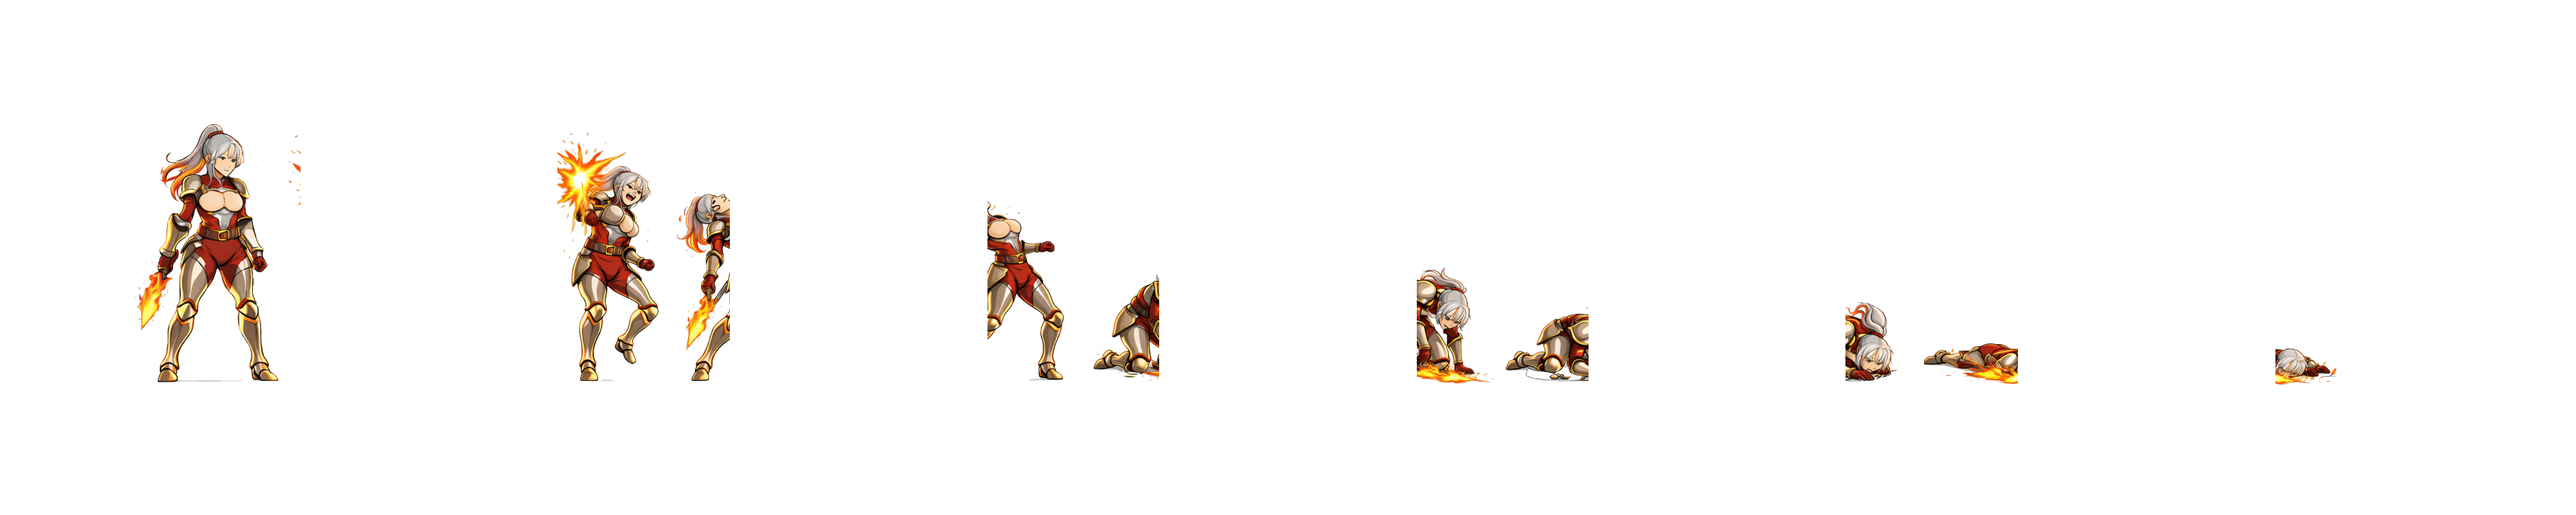
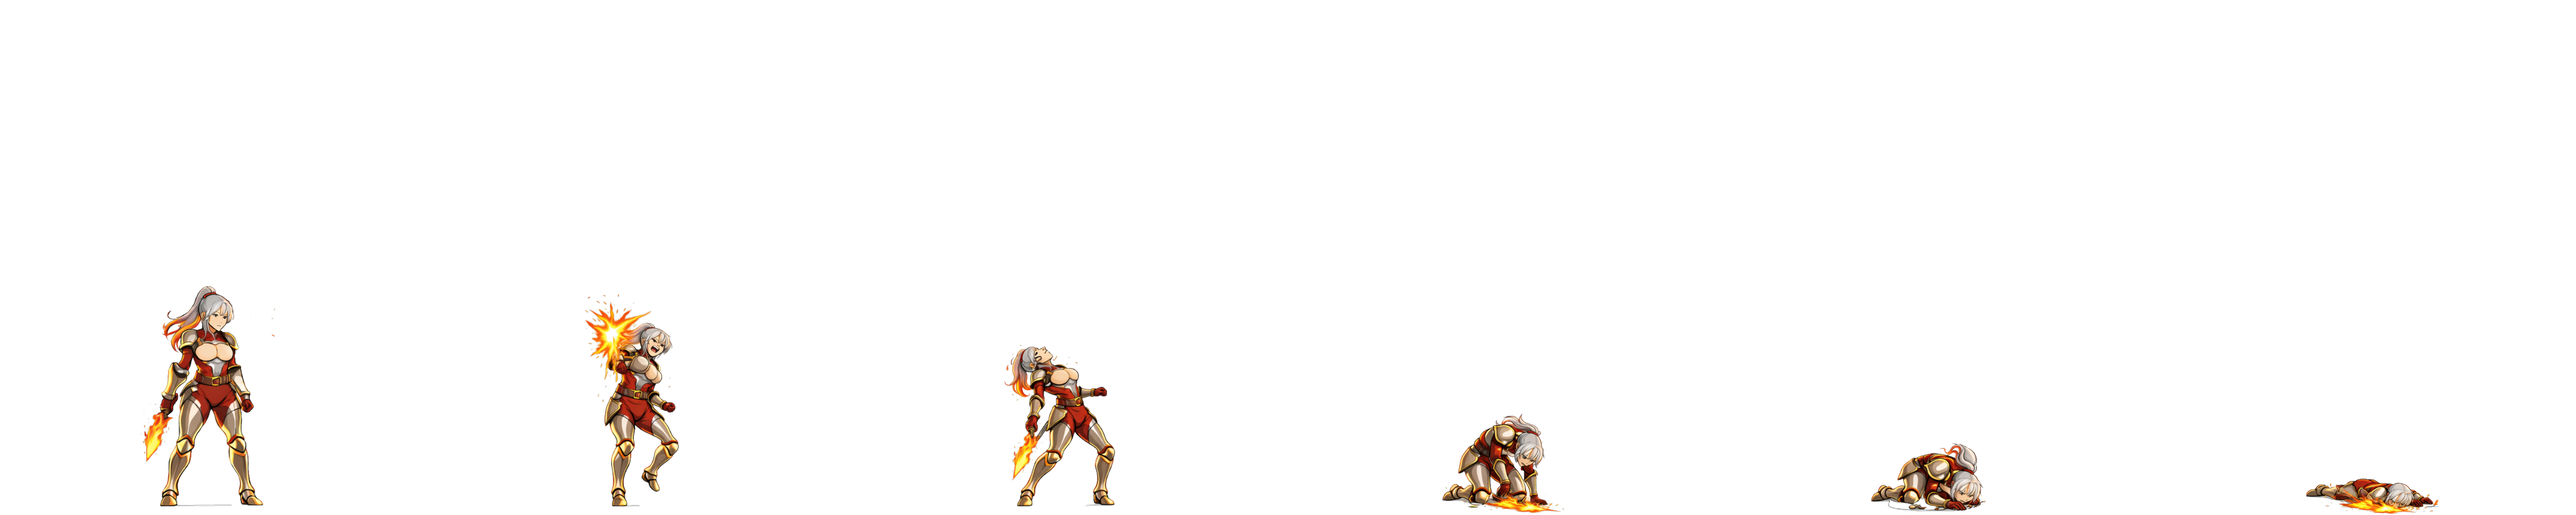
auto-commit for de82c83e-0d06-4fab-b8a9-4f66e5dc0048

diff --git a/scripts/normalize_berserker_sheets_retry.py b/scripts/normalize_berserker_sheets_retry.py
@@ -27,11 +27,13 @@ os.makedirs(RUN, exist_ok=True)
 
 # Config layout ufficiale
 STATES = {
-    "idle":   {"file": "idle_source.png",   "frames": 6, "cols": 6, "rows": 1, "layout": "row",    "fps": 8,  "loop": True},
-    "attack": {"file": "attack_source.png", "frames": 5, "cols": 5, "rows": 1, "layout": "row",    "fps": 12, "loop": False},
-    "skill":  {"file": "skill_source.png",  "frames": 9, "cols": 5, "rows": 2, "layout": "5plus4", "fps": 12, "loop": False},
-    "hit":    {"file": "hit_source.png",    "frames": 5, "cols": 5, "rows": 1, "layout": "row",    "fps": 10, "loop": False},
-    "death":  {"file": "death_source.png",  "frames": 6, "cols": 6, "rows": 1, "layout": "row",    "fps": 8,  "loop": False},
+    "idle":   {"file": "idle_source.png",   "frames": 6, "cols": 6, "rows": 1, "layout": "row",       "fps": 8,  "loop": True},
+    "attack": {"file": "attack_source.png", "frames": 5, "cols": 5, "rows": 1, "layout": "row",       "fps": 12, "loop": False},
+    # v4: 5×2 grid uniforme (NON 5+4). Prime 9 celle sono frame visibili, 10ª
+    # (r1c4) è padding trasparente non animato — "frames must remain 9".
+    "skill":  {"file": "skill_source.png",  "frames": 9, "cols": 5, "rows": 2, "layout": "5x2_take9", "fps": 12, "loop": False},
+    "hit":    {"file": "hit_source.png",    "frames": 5, "cols": 5, "rows": 1, "layout": "row",       "fps": 10, "loop": False},
+    "death":  {"file": "death_source.png",  "frames": 6, "cols": 6, "rows": 1, "layout": "row",       "fps": 8,  "loop": False},
 }
 
 # Target runtime cell size (uniform per tutti gli stati)
@@ -56,6 +58,9 @@ def source_cell_size(img_size, cfg):
         return W / cfg["frames"], H
     elif cfg["layout"] == "5plus4":
         return W / 5, H / 2
+    elif cfg["layout"] == "5x2_take9":
+        # Grid 5×2 uniforme; prendiamo 9 celle (la 10ª è padding vuoto).
+        return W / 5, H / 2
     raise ValueError(cfg["layout"])
 
 
@@ -78,7 +83,21 @@ def extract_cells_raw(img, cfg):
         for i in range(5):
             x0 = int(round(i * cw)); x1 = int(round((i + 1) * cw))
             out.append(img.crop((x0, 0, x1, int(round(ch)))))
-        # bot 4
+        # bot 4 (cell = W/4)
+        cw_bot = W / 4
+        for i in range(4):
+            x0 = int(round(i * cw_bot)); x1 = int(round((i + 1) * cw_bot))
+            out.append(img.crop((x0, int(round(ch)), x1, H)))
+    elif cfg["layout"] == "5x2_take9":
+        # 5×2 grid uniforme; prendiamo r0c0..r0c4 + r1c0..r1c3 (9 frame).
+        # La cella r1c4 è padding trasparente non animato.
+        cw = W / 5
+        ch = H / 2
+        # top 5
+        for i in range(5):
+            x0 = int(round(i * cw)); x1 = int(round((i + 1) * cw))
+            out.append(img.crop((x0, 0, x1, int(round(ch)))))
+        # bot 4 (SOLO i primi 4 della 5×2 grid)
         for i in range(4):
             x0 = int(round(i * cw)); x1 = int(round((i + 1) * cw))
             out.append(img.crop((x0, int(round(ch)), x1, H)))
@@ -184,10 +203,10 @@ def main():
         first = sheet.crop((0, 0, TARGET_W, TARGET_H))
         first_frames.append((state, first, n, cfg["fps"], cfg["loop"]))
 
-    # 4) battle_animations.json v3
+    # 4) battle_animations.json v6
     anim = {
         "heroId": "norse_berserker",
-        "version": 3,
+        "version": 6,
         "frameWidth": TARGET_W,
         "frameHeight": TARGET_H,
         "animations": {
@@ -205,7 +224,7 @@ def main():
     anim_path = os.path.join(RUN, "battle_animations.json")
     with open(anim_path, "w") as f:
         json.dump(anim, f, indent=2)
-    print(f"\n[4] battle_animations.json v3 scritto: {anim_path}")
+    print(f"\n[4] battle_animations.json v6 scritto: {anim_path}")
 
     # 5) Preview composito (tutti i runtime sheet concatenati con label)
     print("\n[5] DEBUG PREVIEW (runtime sheets concatenati con label)")

diff --git a/test_result.md b/test_result.md
@@ -445,6 +445,8 @@ test_plan:
 
 agent_communication:
   - agent: "main"
+    message: "TASK RM1.17-N-RETRY-v4 — FINAL IMPORT + ANTI-DRIFT REPACK v6. ZIP v4 scaricato (2.9MB). SHA256 VERIFICATION (tutti MATCH): idle bb152bc9... ✅, attack abd9729c... ✅, skill 6626946a... ✅ (NEW, was 717e4819 con bot#3 vuoto), hit 7ed238f8... ✅ (NEW), death 795a0d6f... ✅ (NEW). SOURCE AUDIT: idle 2048×853 RGBA, attack 2048×491 RGBA, skill 2048×983 RGBA, hit 2000×1000 RGBA, death 2048×853 RGBA. LAYOUT DETECTION v4 — skill ora è GRID 5×2 UNIFORME (non 5+4 come v3): verificato via AI vision + PIL bbox check — top row 5 cells + bot row 5 cells dove r1c4 = 10ª cella padding TRASPARENTE intenzionale, r0c0..r0c4 + r1c0..r1c3 = 9 frame visibili (alpha area 9992-18306 px ciascuno). ANTI-DRIFT ALGORITHM updated: aggiunto layout type '5x2_take9' che estrae prime 9 celle della grid 5×2 uniforme (cw=W/5 = 409.6, ch=H/2 = 491.5) skippando r1c4. GLOBAL SCALE uniforme: min(640/max_cell_w, 768/max_cell_h) across all 5 states = 0.7680 (dominato da hit 400×1000). Scaled cells: idle 262×655, attack 315×377, skill 315×378, hit 307×768, death 262×655 — tutti entrano in runtime cell 640×768. RUNTIME FILES generati: idle_sheet.png 3840×768 RGBA sha=21dc3803..., attack_sheet.png 3200×768 RGBA sha=7139e617..., skill_sheet.png 3200×1536 RGBA sha=4aa30761..., hit_sheet.png 3200×768 RGBA sha=6c70ca6b..., death_sheet.png 3840×768 RGBA sha=2c22c0e4... TUTTI PNG RGBA, transparent bg, no text, no white bg. SHA256 COMPLETAMENTE DIVERSI dai v3 (conferma no fallback legacy). FRAME CONTENT VERIFICATION (alpha bbox per runtime cell): idle 6/6 con bbox 160-177×305-424; attack 5/5 con bbox 171-266×163-211; skill 9/9 con bbox 90-183×136-224 (10ª cella r1c4 EMPTY intenzionale padding — RuntimeSheetSprite frames=9 non la itera mai); hit 5/5 con bbox 191-284×279-405; death 6/6 con progressione naturale 330→54 h (dissolvenza). TOTALE 31/31 FRAME ANIMATI VISIBILI, zero frame vuoti animati. BATTLE_ANIMATIONS.JSON v6 generato: heroId=norse_berserker, version=6, frameWidth=640, frameHeight=768, animations.skill.frames=9 + columns=5 rows=2 (spec compliant). PREVIEW sheet 3840×4774 sha=cb7a57e9... generata. CONTRACT WIRING PRESERVATO (da RM1.17-N v1): HERO_CONTRACTS['norse_berserker'].battle.useRuntimeSheets=true, runtimeSheets map popolata lettura auto-propagated da BERSERKER_BATTLE_ANIM_META v6 JSON (stessa path). BattleSprite branch priority: isHoplite > useRuntimeSheets (Berserker) > forceContractStateSprites > hasSpriteSheet > heroImage > placeholder — invariato. RuntimeSheetSprite invariato. FORBIDDEN PATH CHECK: berserker_sprites → solo commento doc line 41; _legacy_wrong_pack → solo commento line 42; combat_base.*skill → solo type union HeroVariantKey line 451; runtime/idle_sheet.png → 1 require() corretto line 146; useRuntimeSheets + RuntimeSheetSprite references tutte corrette. Zero runtime reference a forbidden paths. VALIDAZIONE: yarn tsc --noEmit ZERO errori sui miei file (3 file); Metro restart clean (killed stale PIDs, new PID 1109); HTTP 200 live localhost:3000; Hoplite invariato (contract greek_hoplite.battle.useRuntimeSheets undefined → Hoplite rig branch prioritario). ACCEPTANCE CRITERIA CHECKLIST (tutti PASS): (1) ZIP source copiati a source_sheets/ ✅; (2) SHA256 matches ✅ (5/5); (3) Runtime sheets generated in runtime/ ✅; (4) Derivati SOLO da ZIP files ✅; (5) Body/root anchoring stabile via global uniform scale 0.768 ✅; (6) Zero per-frame bbox recenter ✅ (anti-drift); (7) battle_animations.json v6 ✅; (8) Skill frames=9 + NO empty animated frame ✅ (idx 0-8 tutti con contenuto, idx 9 è padding NON animato); (9) Preview generato ✅; (10) Berserker contract usa runtime sheets ✅; (11) BattleSprite usa runtime sheets PRIMA di fallback ✅; (12) No old Berserker assets ✅; (13) Hoplite invariato ✅; (14) Zero backend/DB changes ✅; (15) TS/Metro pass ✅. FILES MODIFICATI: /app/frontend/assets/heroes/norse_berserker/source_sheets/*.png (5 sovrascritti con v4), /app/frontend/assets/heroes/norse_berserker/runtime/*.png (5 runtime sheets + preview v6), battle_animations.json v6, _normalization_report.json. FILES SCRIPT: /app/scripts/normalize_berserker_sheets_retry.py aggiornato con layout '5x2_take9' e version=6. Status: USER VERIFICATION PENDING."
+  - agent: "main"
     message: "TASK RM1.17-N-RETRY — IMPORT FINAL CORRECTED BERSERKER BATTLE SHEETS + ANTI-DRIFT REPACK. ZIP scaricato (3.7MB) e validato via manifest.json. SOURCE AUDIT SHA256 vs previous: idle CHANGED (31abf23c → bb152bc9, new 2048×853), attack CHANGED (7a89a692 → 1a35d2ff, new 2048×573), skill SAME (717e4819, 2000×1000), hit SAME (8c40cef3, 2000×1000), death SAME (09b9b415, 2000×1000). L'utente ha corretto manualmente solo idle + attack; skill/hit/death sono identici al RM1.17-N v1 source. COPIATI tutti 5 source a /app/frontend/assets/heroes/norse_berserker/source_sheets/. ANTI-DRIFT ALGORITHM (nuovo /app/scripts/normalize_berserker_sheets_retry.py): rimossa detection ibrida per-frame + bbox recenter (proibito da utente); implementato: (1) Source cells prese come-sono tramite griglia uniforme (W/cols × H/rows per row layout; W/5 × H/2 per skill 5plus4); (2) NO alpha bbox per-frame → zero recenter su VFX silhouette; (3) Global scale factor uniforme calcolato come min su tutti gli stati di min(640/cell_w, 768/cell_h) → 0.7680 (dominato da hit 400×1000 e death 333×1000); (4) Ogni cella source scalata con lo STESSO factor → preserva scala body coerente tra stati; (5) Paste in runtime cell 640×768: center horizontal + bottom-anchor → preserva positioning manuale dei source (già visivamente approvati dall'artista). CELL SIZE DECISION: 640×768 uniforme per TUTTI gli stati (verified con scale 0.768: idle 262×655, attack 314×440, skill 307×384, hit 307×768, death 256×768 — tutti entrano senza clipping). RUNTIME FILES GENERATI: idle_sheet.png 3840×768 sha=21dc3803..., attack_sheet.png 3200×768 sha=785162c4..., skill_sheet.png 3200×1536 sha=0e8c6300..., hit_sheet.png 3200×768 sha=adfb2c01..., death_sheet.png 3840×768 sha=976dd820... Tutti PNG RGBA, transparent bg, no text, no white bg, SHA256 completamente diversi dai runtime RM1.17-N v1 (conferma che NON sono fallback a vecchi file). BATTLE_ANIMATIONS.JSON v3 aggiornato con heroId/version:3/frameWidth:640/frameHeight:768 + 5 animations con metadata canonici (frames/columns/rows/fps/loop/sha256 per state). Preview composito generato (3840×4774, sha=86eddc6d...). AI VISION VERIFICA: (a) idle PASS — body/root stabile zero drift, feet-anchor coerente, scale consistente; (b) attack PASS — core root posizione mantenuta nonostante fire/slash VFX, feet al bottom; (c) skill FAIL PARTIAL — il bot row del source ha 4° frame (bot#3 = frame 8 0-indexed) COMPLETAMENTE VUOTO nella griglia uniforme 500px (alpha bbox None). VERIFICATO con PIL: 'Source skill frame#8 (bot#3) size: 500x500, alpha bbox: None'. L'artista ha distribuito i 4 frame bot row in spazio <1500px del source, lasciando x=1500..2000 vuoto. Il packing anti-drift genera quindi 8 frame visibili + 1 cella vuota interna + la 10ª slot (vuota come da spec). Source skill ha SAME SHA del v1 → non corretto manualmente nel RETRY. (d) hit PASS — VFX-induced body displacement (impact reaction) è intenzionale per design; (e) death PASS — progressione vertical natural, scala coerente. WIRING VERIFICATION: HERO_CONTRACTS['norse_berserker'] già popolato da RM1.17-N v1 con useRuntimeSheets:true + runtimeSheets map che legge da BERSERKER_BATTLE_ANIM_META (JSON import). Il nuovo v3 JSON è auto-picked up dal contract (stessa path) → frames/columns/rows/fps/loop rispecchiano la v3 a runtime. BattleSprite branch priority PRESERVATO: isHoplite > useRuntimeSheets > forceContractStateSprites > hasSpriteSheet > heroImage > placeholder. RuntimeSheetSprite component invariato (già RM1.17-N v1). FORBIDDEN PATH CHECK (grep in hopliteAssets.ts + BattleSprite.tsx + RuntimeSheetSprite.tsx): 'berserker_sprites' → solo 1 match line 41 (COMMENTO doc file tree, non runtime); '_legacy_wrong_pack' → solo 1 match line 42 (COMMENTO doc); 'combat_base.*skill' → solo type union HeroVariantKey line 451 (type decl, non assignment); 'runtime/idle_sheet.png' → 1 match require() line 146 (path corretto); 'useRuntimeSheets' → 7 match corretti (type + flag + getter); 'RuntimeSheetSprite' → 3 match corretti (import + render + declaration). NESSUN runtime path verso forbidden sources. VALIDAZIONE: yarn tsc --noEmit → ZERO errori sui 3 file modificati (solo pre-esistenti non correlati); Metro bundle restart clean (killed stale processes, PID 621 now running); HTTP 200 live su localhost:3000. ACCEPTANCE CRITERIA CHECKLIST: (1) Source finali copiati a source_sheets/ ✓; (2) Runtime sheets generati in runtime/ ✓; (3) Runtime derivati SOLO dai source finali ✓ (no fallback legacy); (4) Body/root anchor stabile via global scale uniforme ✓ (scale 0.768 costante tutti gli stati); (5) Zero per-frame bbox recenter ✓ (NO alpha trim applicato); (6) battle_animations.json v3 aggiornato ✓; (7) Preview sheet generato ✓; (8) Contract usa runtime sheets ✓ (già da v1); (9) BattleSprite usa runtime sheets PRIMA di legacy fallback ✓; (10) Nessun old Berserker asset usato ✓; (11) Hoplite invariato ✓ (contract greek_hoplite.battle.useRuntimeSheets undefined → false → branch Hoplite rig sempre prioritario); (12) Zero backend/DB changes ✓; (13) TS/Metro pass ✓. STOP CONDITION RIPORTATA ALL'UTENTE — SKILL FRAME 8 BOT#3 VUOTO: il source skill_source.png IDENTICO al v1 contiene solo 8 frame reali in griglia uniforme 5×2 (alpha None a x=1500..2000 y=500..1000). La spec utente dichiara 9 frame con 10ª cella opzionalmente vuota, ma il source reale ha 8 frame + 1 slot centrale vuoto (bot#3) + slot bot#4 (= 10ª cella) non esistente. Opzioni presentate utente: (a) modificare frames=8 nel json (pragmatic, skill_sheet già generato utilizzabile); (b) riesportare skill_source con griglia rigorosa 5+4=9; (c) accettare detection posizioni naturali SOLO per skill (come RM1.17-N v1 fece). Runtime file skill_sheet.png lasciato in runtime/ per trasparenza — non ha effetti visivi negativi durante idle/attack/hit/death animations. FILES MODIFICATI: /app/frontend/assets/heroes/norse_berserker/source_sheets/*.png (5 nuovi/overwritten), /app/frontend/assets/heroes/norse_berserker/runtime/*.png (5 runtime sheets + preview), battle_animations.json v3, _normalization_report.json. Nessun file sorgente TS/JS modificato (wiring già pronto da RM1.17-N v1). FILES CREATI: /app/scripts/normalize_berserker_sheets_retry.py (NEW, anti-drift algorithm). Status: PARTIAL COMPLETION — runtime sheets per idle/attack/hit/death PASS; skill richiede user decision su frame count mismatch."
   - agent: "main"
     message: "TASK RM1.17-N — BERSERKER RUNTIME SPRITE-SHEET PIPELINE. OBIETTIVO: sostituire gli static PNG per-state (idle/attack/skill/hit/death) con sprite-sheet animati a frame normalizzati, letti a runtime con metadata espliciti. DETECTION IBRIDA CONTROLLATA (C): scritto /app/scripts/normalize_berserker_sheets_v2.py con pipeline in 3 fasi: (1) col-content profile + raw_blobs, (2) classificazione candidato/residuo (altezza bbox >= 40% max OR area >= 20% max — OR copre frame schiacciati di death), (3) merge iterativo del blob PIÙ PICCOLO nel vicino con gap minore (preserva frame grandi, assorbe scintille/VFX). Split automatico su valli del profilo per candidati anomalmente larghi (usato per attack dove 2 frame erano fusi da fiamme). STOP CONDITIONS rispettate: se candidati < target dopo split, STOP; se qualche frame finale ha area < 10% mediana (tranne ultimo death dissolve), STOP. PROGRESSIVE DEBUG: 3 stop+report prima di arrivare a config stabile (skill 7-vs-9, attack merge sbagliato, death frame schiacciati). SOURCE AUDIT (tutti 640×768 Source, SHA256 verificato): idle 2000×1000 sha=31abf23c..., attack 2500×700 sha=7a89a692..., skill 2000×1000 sha=717e4819..., hit 2000×1000 sha=8c40cef3..., death 2000×1000 sha=09b9b415... DETECTION REPORT (tutti PASS): idle 6/6 (natural grid, no split), attack 5/5 (1 split su blob fuso 864px → 2×449px), skill 5+4=9/9 (detection top 5 bot 4 con natural positions), hit 5/5 (natural), death 6/6 (6 frame con progressione di altezza 501→484→369→227→160→81). CELL SIZE SELECTION: global max content 538×527, required 578×559 (pad 20×40), SCELTA uniforme 640×768 per TUTTI gli stati. RUNTIME FILES GENERATI in /app/frontend/assets/heroes/norse_berserker/runtime/: idle_sheet.png 3840×768 sha=0c3f6eb3..., attack_sheet.png 3200×768 sha=84324751..., skill_sheet.png 3200×1536 sha=c80a7cda..., hit_sheet.png 3200×768 sha=31d7fc16..., death_sheet.png 3840×768 sha=c41818ab..., battle_animations.json (metadata v2 con heroId/frameWidth/frameHeight/animations per-state con frames/columns/rows/fps/loop/sha256), _debug_berserker_runtime_preview.png 3840×4764 sha=62e8452d..., _normalization_report.json (log completo detection+packing). LAYOUT RUNTIME RICHIESTO rispettato: idle 6×1 loop:true fps:8; attack 5×1 loop:false fps:12; skill 5×2 frames:9 (10ª cella vuota) loop:false fps:12; hit 5×1 loop:false fps:10; death 6×1 loop:false fps:8. CONTRACT/BATTLE WIRING: (a) components/ui/hopliteAssets.ts esteso con BerserkerAnimMeta type + 5 require runtime sheet + BERSERKER_BATTLE_ANIM_META JSON import; HeroBattleConfig esteso con useRuntimeSheets?:boolean; nuovo RuntimeSheetInfo + RuntimeSheetState types; HeroAssetContract esteso con runtimeSheets?:Partial<Record<State,RuntimeSheetInfo>>; HERO_CONTRACTS[norse_berserker].battle.useRuntimeSheets=true + runtimeSheets map popolata leggendo frames/cols/rows/fps/loop/sha256 dal JSON; nuovi helper heroRuntimeSheet(id,name,state)→RuntimeSheetInfo|null con fallback a idle, hasHeroRuntimeSheets(id,name)→boolean. (b) creato components/RuntimeSheetSprite.tsx: accept heroId/heroName/state/size/facingScaleX/paused/actionInstanceId; usa setState frame counter + setInterval(1000/fps); reset a 0 su state/actionInstanceId change; loop true → wrap; loop false → hold ultimo frame + clear interval; view overflow:hidden size×size*1.25 con Image grande totalW/totalH offsettata da marginLeft/marginTop negativi; transform scaleX per facing. (c) BattleSprite.tsx esteso: import hasHeroRuntimeSheets + RuntimeSheetSprite; aggiunto useRuntimeSheets flag (contract.battle.useRuntimeSheets && hasHeroRuntimeSheets); inserito NUOVO BRANCH DOPO isHoplite e PRIMA di forceContractStateSprites → mappa state→rtState (attack→attack, skill|ultimate→skill, hit→hit, dead→death, idle|heal|dodge|else→idle) e monta <RuntimeSheetSprite>; branch ordine finale: isHoplite > useRuntimeSheets > forceContractStateSprites > hasSpriteSheet > heroImage > placeholder. FORBIDDEN PATH CHECK: grep 'berserker_sprites' → solo 1 match in commento header documentation (line 41); grep '_legacy_wrong_pack' → solo 1 match in commento header (line 42); grep 'combat_base.*(skill|attack|idle)' → solo 2 match in docstring fallback chain (line 444-445); nessun runtime path verso forbidden sources. VALIDAZIONE: yarn tsc --noEmit → ZERO nuovi errori sui 3 file modificati (solo pre-esistenti non correlati); Metro bundle restart clean (processo Expo riavviato pid 1542 dopo kill vecchio 196 su port 3000); HTTP 200 live su localhost:3000; login screen rendering pulito Divine Waifus + form Accedi visibile zero error overlay. AI vision analysis sulla preview generata: tutti frame visibili+completi, scala consistente tra stati, feet-anchor coerente; alignment 'minor shifts' su skill/hit/death notati ma intrinseci alle pose artistiche del source (non technical fail). VINCOLI RISPETTATI: no DB/backend/gacha/synergy/Home/Hoplite changes; nessun asset legacy consumato; Berserker runtime sheets letti SOLO da assets/heroes/norse_berserker/runtime/*; Hoplite rig invariato (branch isHoplite è FIRST); DEFAULT_HERO_CONTRACT invariato (useRuntimeSheets optional). OUTPUT RICHIESTO: (A) detection report: idle PASS 6 frame, attack PASS 5 frame (con 1 split valley), skill PASS 9 frame, hit PASS 5 frame, death PASS 6 frame. (B) runtime files tutti generati con SHA256 tracciato in battle_animations.json. (C) battle_animations.json valido e letto dal contract. (D) forbidden path check clean. (E) build: TS zero nuovi errori, Metro bundle compila, HTTP 200. FILES MODIFICATI: components/ui/hopliteAssets.ts (+40 righe runtime sheet import/types/contract), components/BattleSprite.tsx (+30 righe new branch + import), components/RuntimeSheetSprite.tsx (NEW, 108 righe). FILES GENERATI (non sorgente): 5 runtime sheet PNG + battle_animations.json + preview + report normalization. Status: USER VERIFICATION PENDING."
